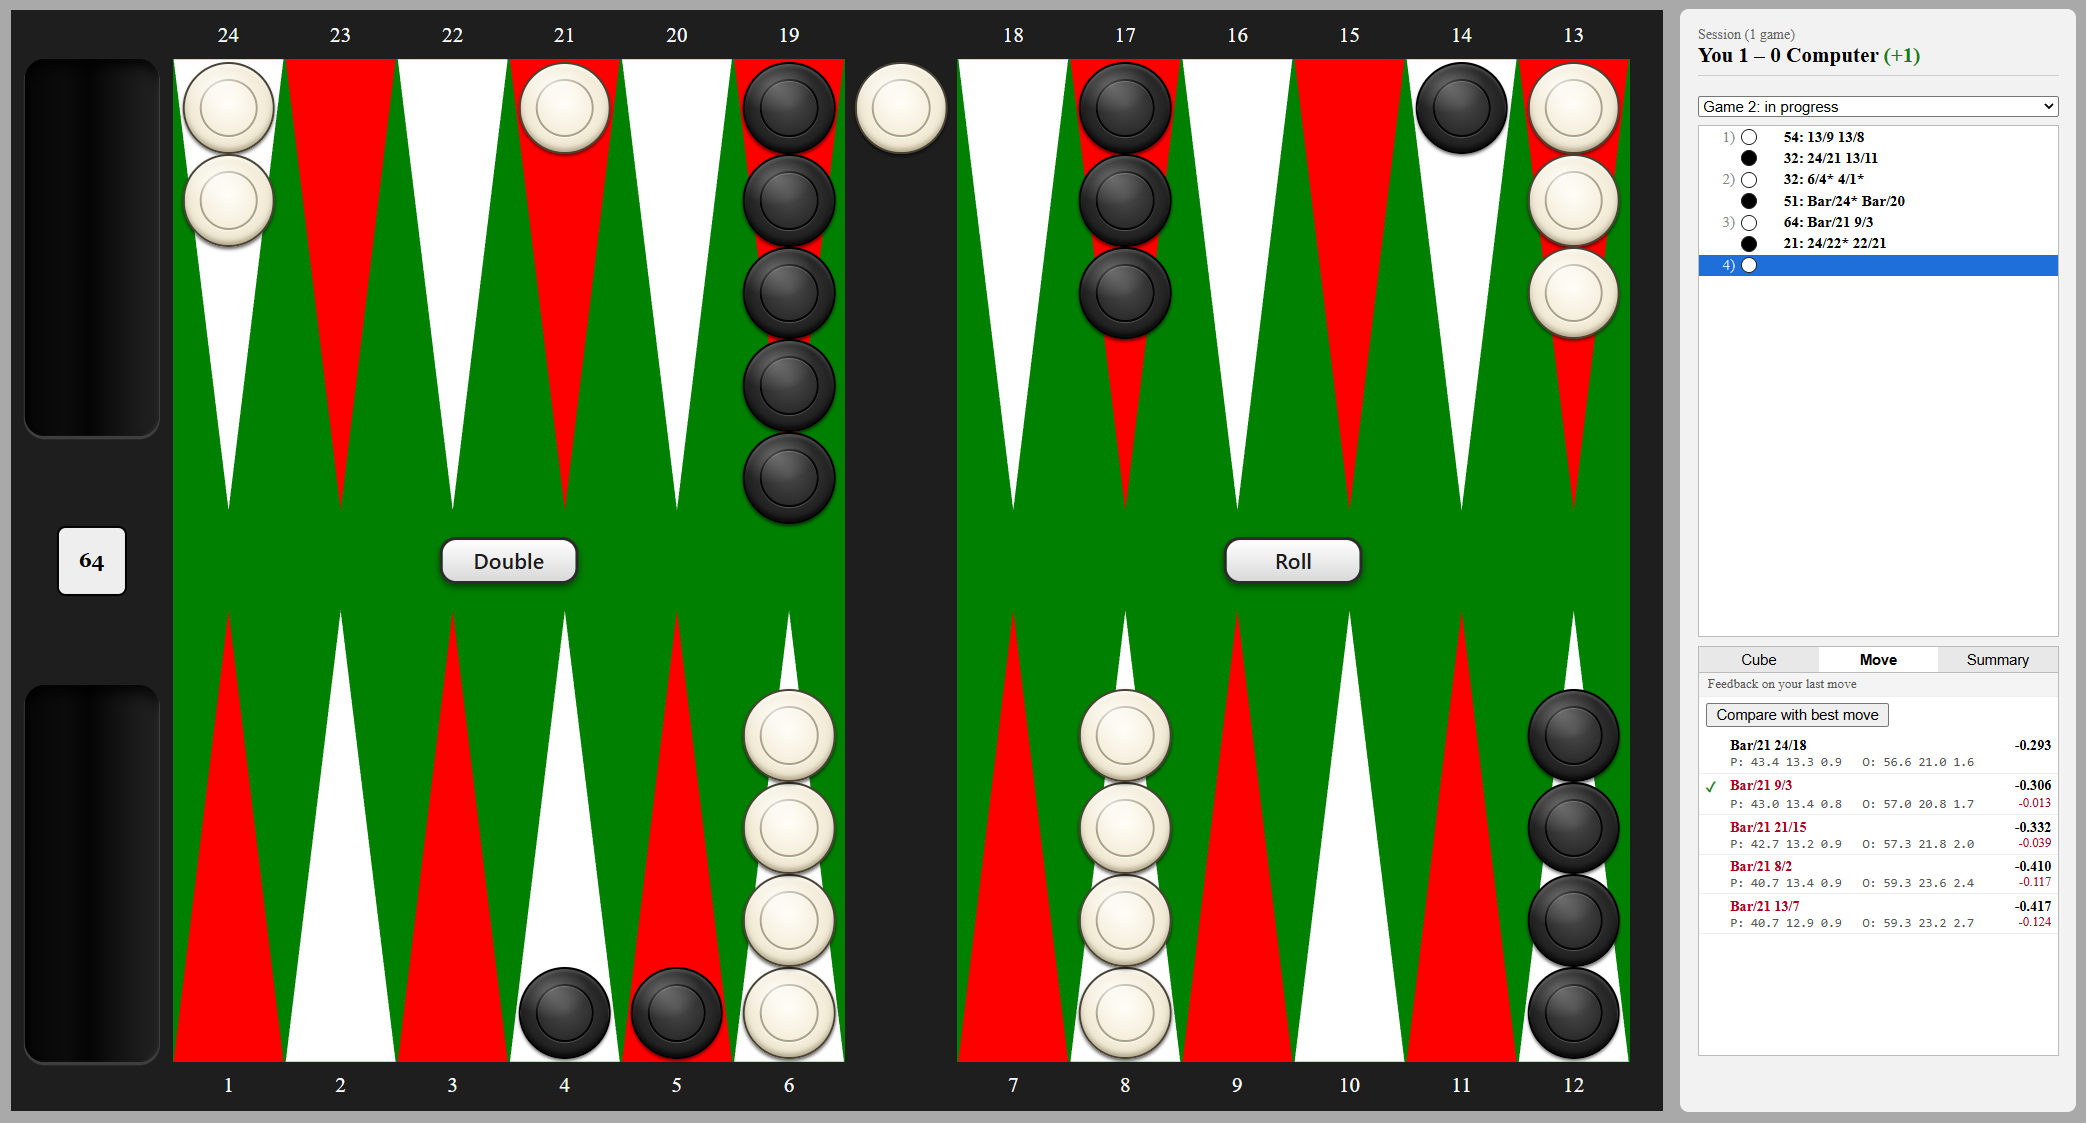
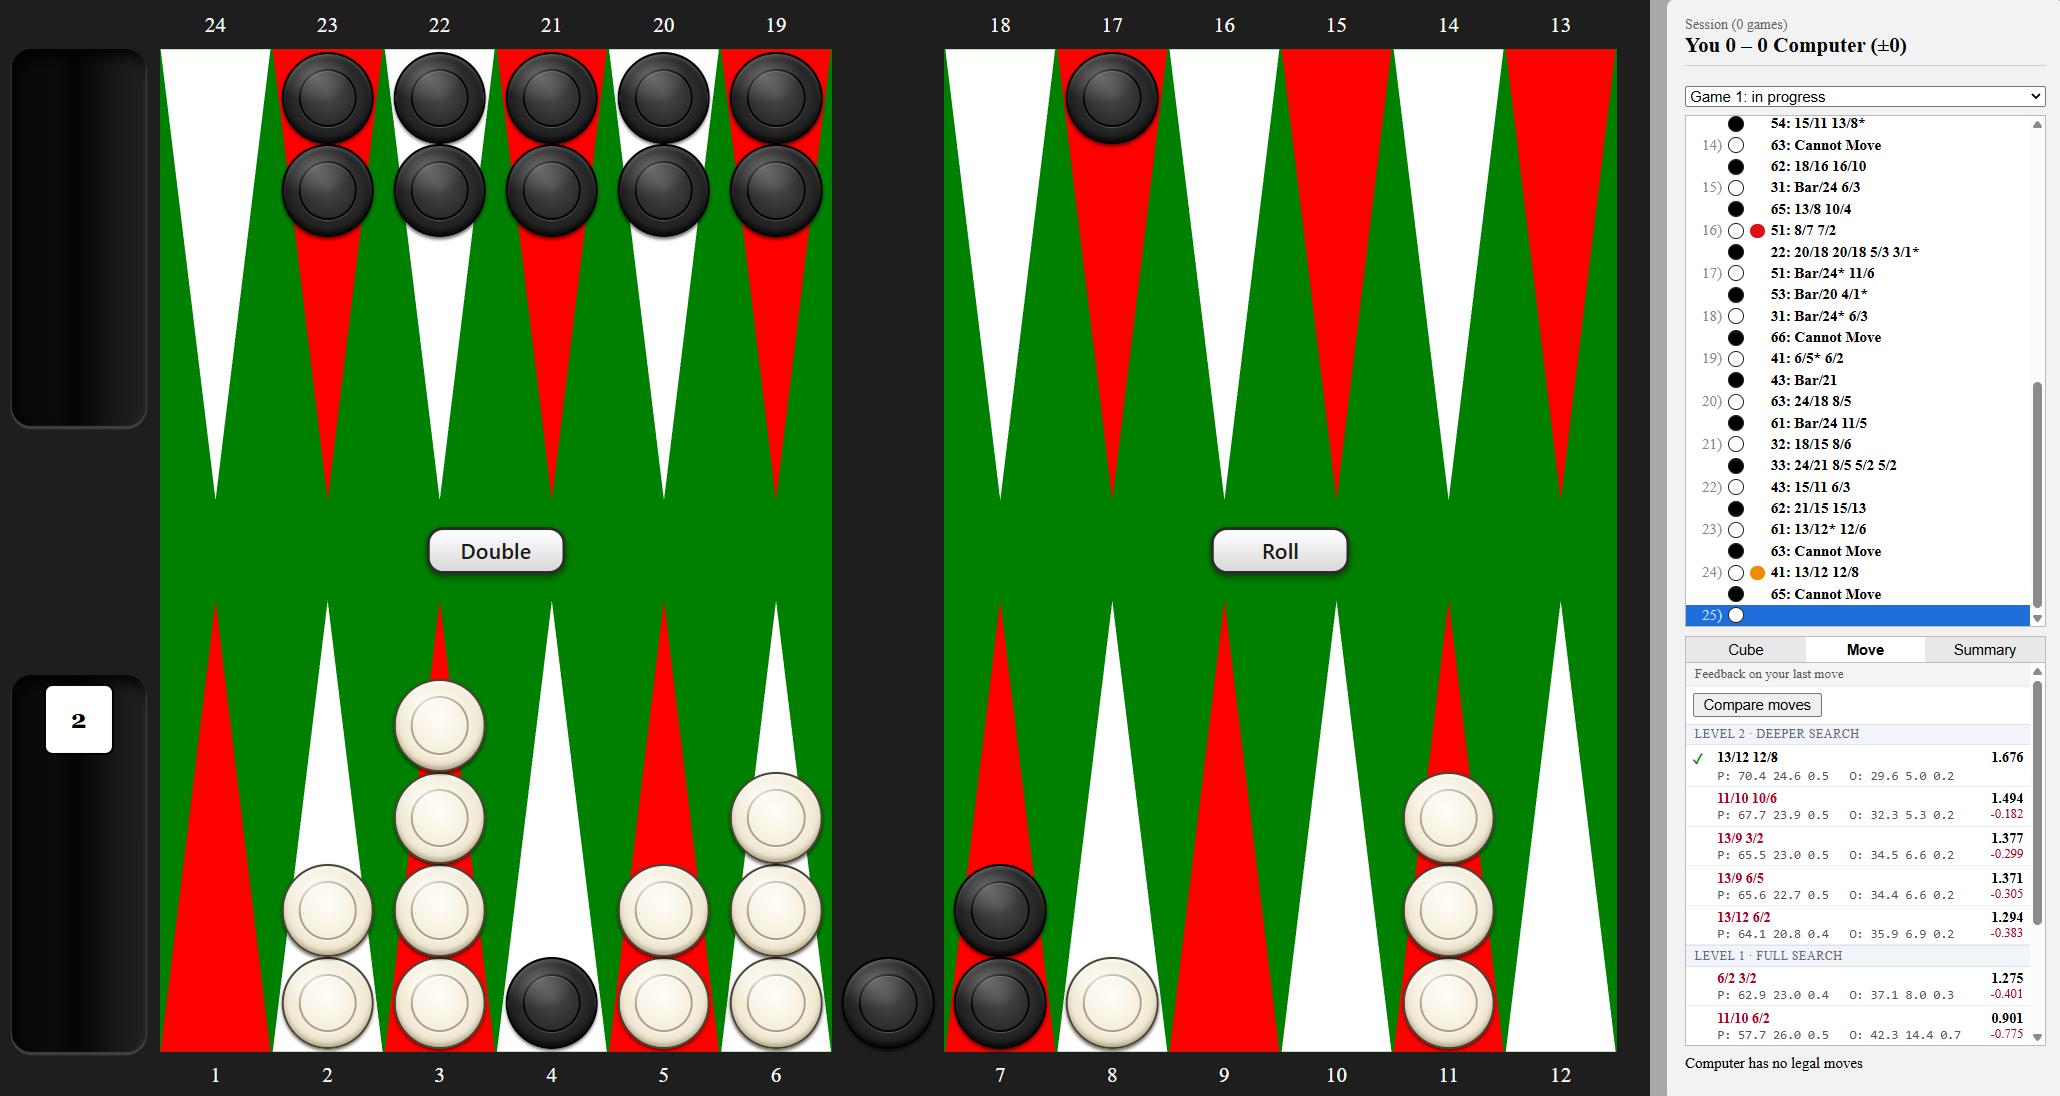
update docs , add screenshos

diff --git a/Readme.MD b/Readme.MD
@@ -1,43 +1,55 @@
 # Backgammon web client
 
-A browser-based backgammon game for playing against a custom C++ engine. The frontend is written in TypeScript without a UI framework. AI (Claude) was used extensively to develop the frontend and prepare the documentation.
+A browser-based backgammon game for playing money games against a custom C++ engine. 
+The front end is written in TypeScript without a UI framework. 
+The engine is a separate project and is not included in this repository, so the front end cannot run on its own.
 
 ![Backgammon game and analysis panel](docs/game.png)
 
 ## Features
 
 **Play**
-- Play money games against the engine, including doubling, taking and dropping.
-- Track the session score.
-- Interactive checker movement with legal moves supplied by the engine.
+- Money games against the engine, including doubling, taking and dropping, with gammon and backgammon scoring.
+- Running session score.
+- Click-to-move checker input; legal moves are supplied by the engine.
 
 **Analysis**
 - Ranked move candidates with equity and win, gammon and backgammon probabilities.
 - Doubling-cube decisions with equity comparisons and per-roll analysis.
-- Move comparison using 6 × 6 dice-grid heatmaps.
-- Game review with move history, error marks and equity-loss summaries.
+- Move comparison with 6 × 6 dice-grid heatmaps.
+- Move history with error marks and equity-loss summaries; review earlier positions and return to the game.
+- Learning mode: evaluations are shown only after the decision they belong to has been made.
 
 **Interface**
-- Responsive 2D board with SVG graphics.
+- Responsive 2D board built with plain DOM and CSS; charts are drawn in SVG.
 - Analysis panel with move, cube and summary views.
-- Review previous positions and return to the current game.
 
 ## Architecture
 
-The frontend communicates with a separate C++ HTTP server over JSON/HTTP. The server handles legal move generation, position evaluation and doubling-cube decisions; the frontend handles the game flow, interface and game history.
+The front end talks to the C++ engine over JSON/HTTP. The engine handles legal move generation, position evaluation and doubling-cube decisions; the front end handles the game flow, the interface and the game history. The requests and responses are typed in `src/api/types.ts`.
 
-The game flow is implemented as an asynchronous function, separated from DOM rendering through a small UI interface. Game history is stored in a `GameRecord`, which drives the move list and analysis views.
+The game flow is one asynchronous function, kept separate from DOM rendering by a small UI interface. Everything that happens is stored in a `GameRecord`, which drives the move list and the analysis views.
 
 ## Tech stack
 
-- **Frontend:** TypeScript (strict), Vite, plain DOM and SVG, CSS.
-- **Backend:** A custom C++ engine for legal move generation, position evaluation and doubling-cube decisions.
-- **Development:** AI-assisted implementation using Claude.
+- **Front end:** TypeScript (strict), Vite, plain DOM, SVG and CSS.
+- **Engine:** custom C++ HTTP server (separate project).
 
 ## Getting started
 
-Requires Node.js and a running engine server listening on port 8080 by default.
+Requires Node.js and the separate engine server, listening on port 8080 by default.
 
-## Running locally
+```bash
+npm install
+npm run dev
+```
 
-Requires Node.js and the separate C++ engine server, listening on port 8080 by default. The Vite development server proxies API requests to the engine.
+The Vite development server proxies `/api` requests to the engine (see `vite.config.ts`).
+
+## About this project
+
+The front end was developed with extensive help from Claude (AI), which also helped write this documentation.
+
+## More screenshots
+![Heatmap for comparing moves](docs/heatmap.png)
+![Diagrams to compare cube decisions](docs/cube.png)
